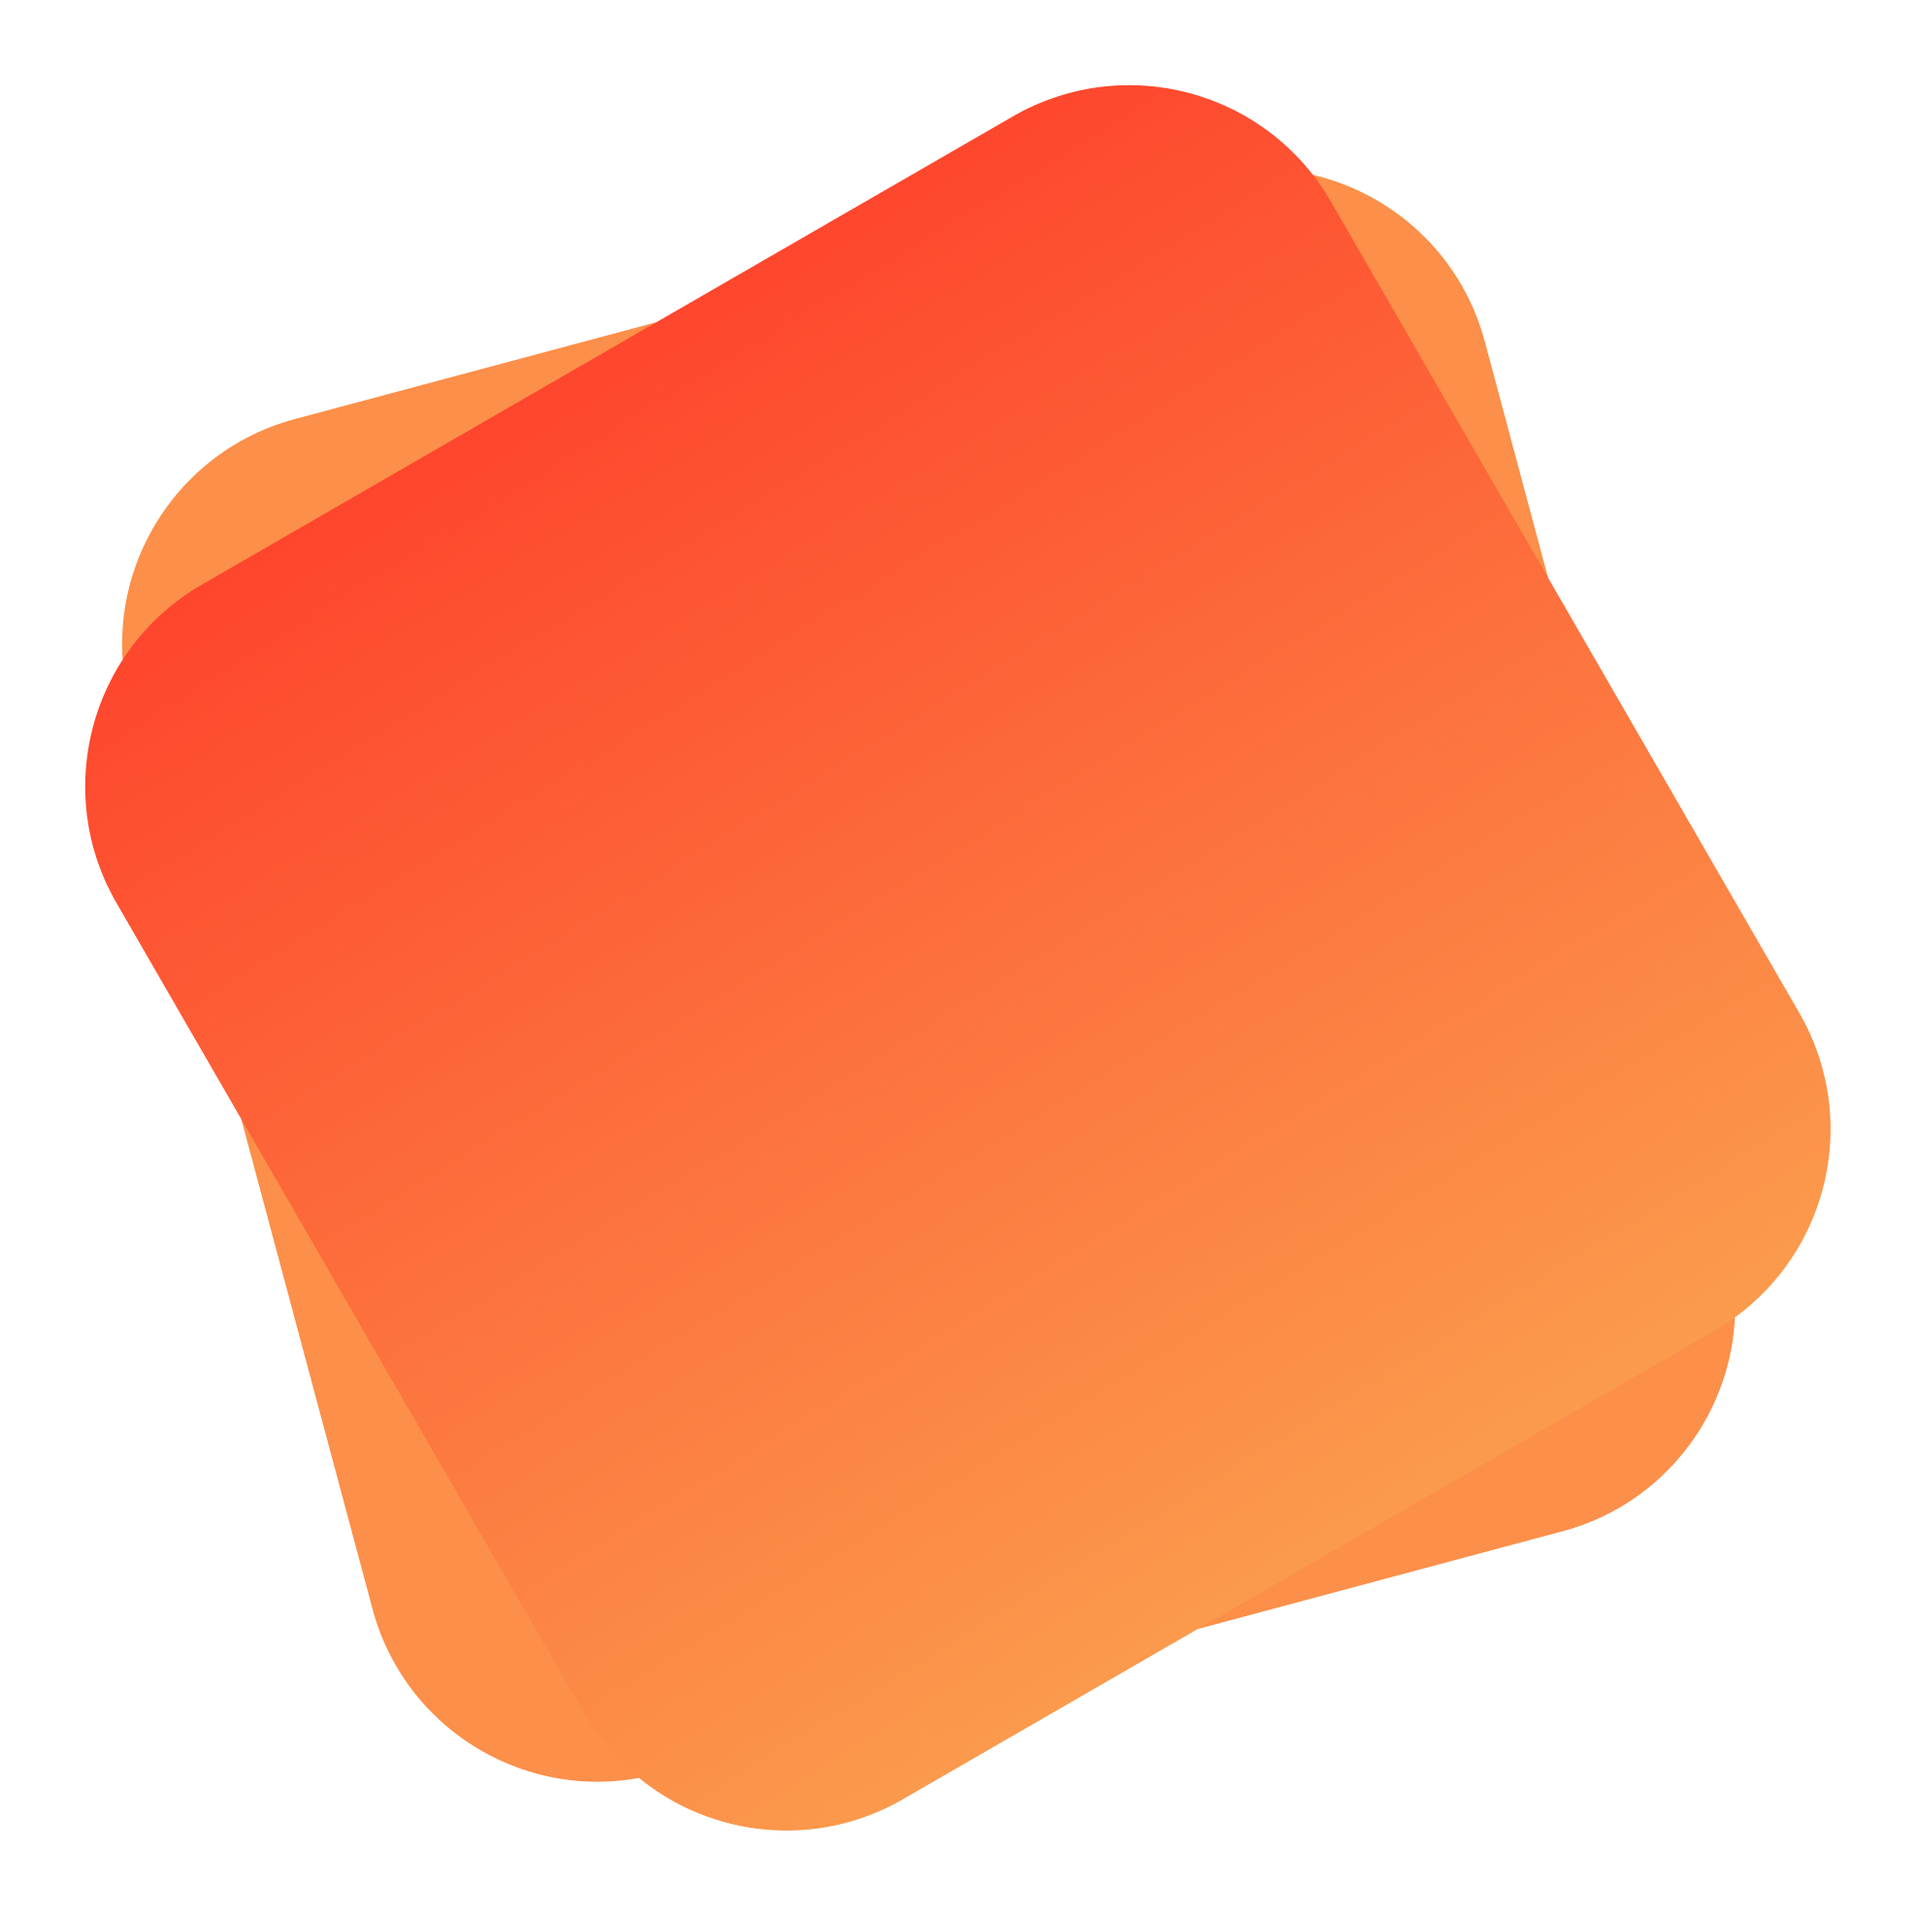
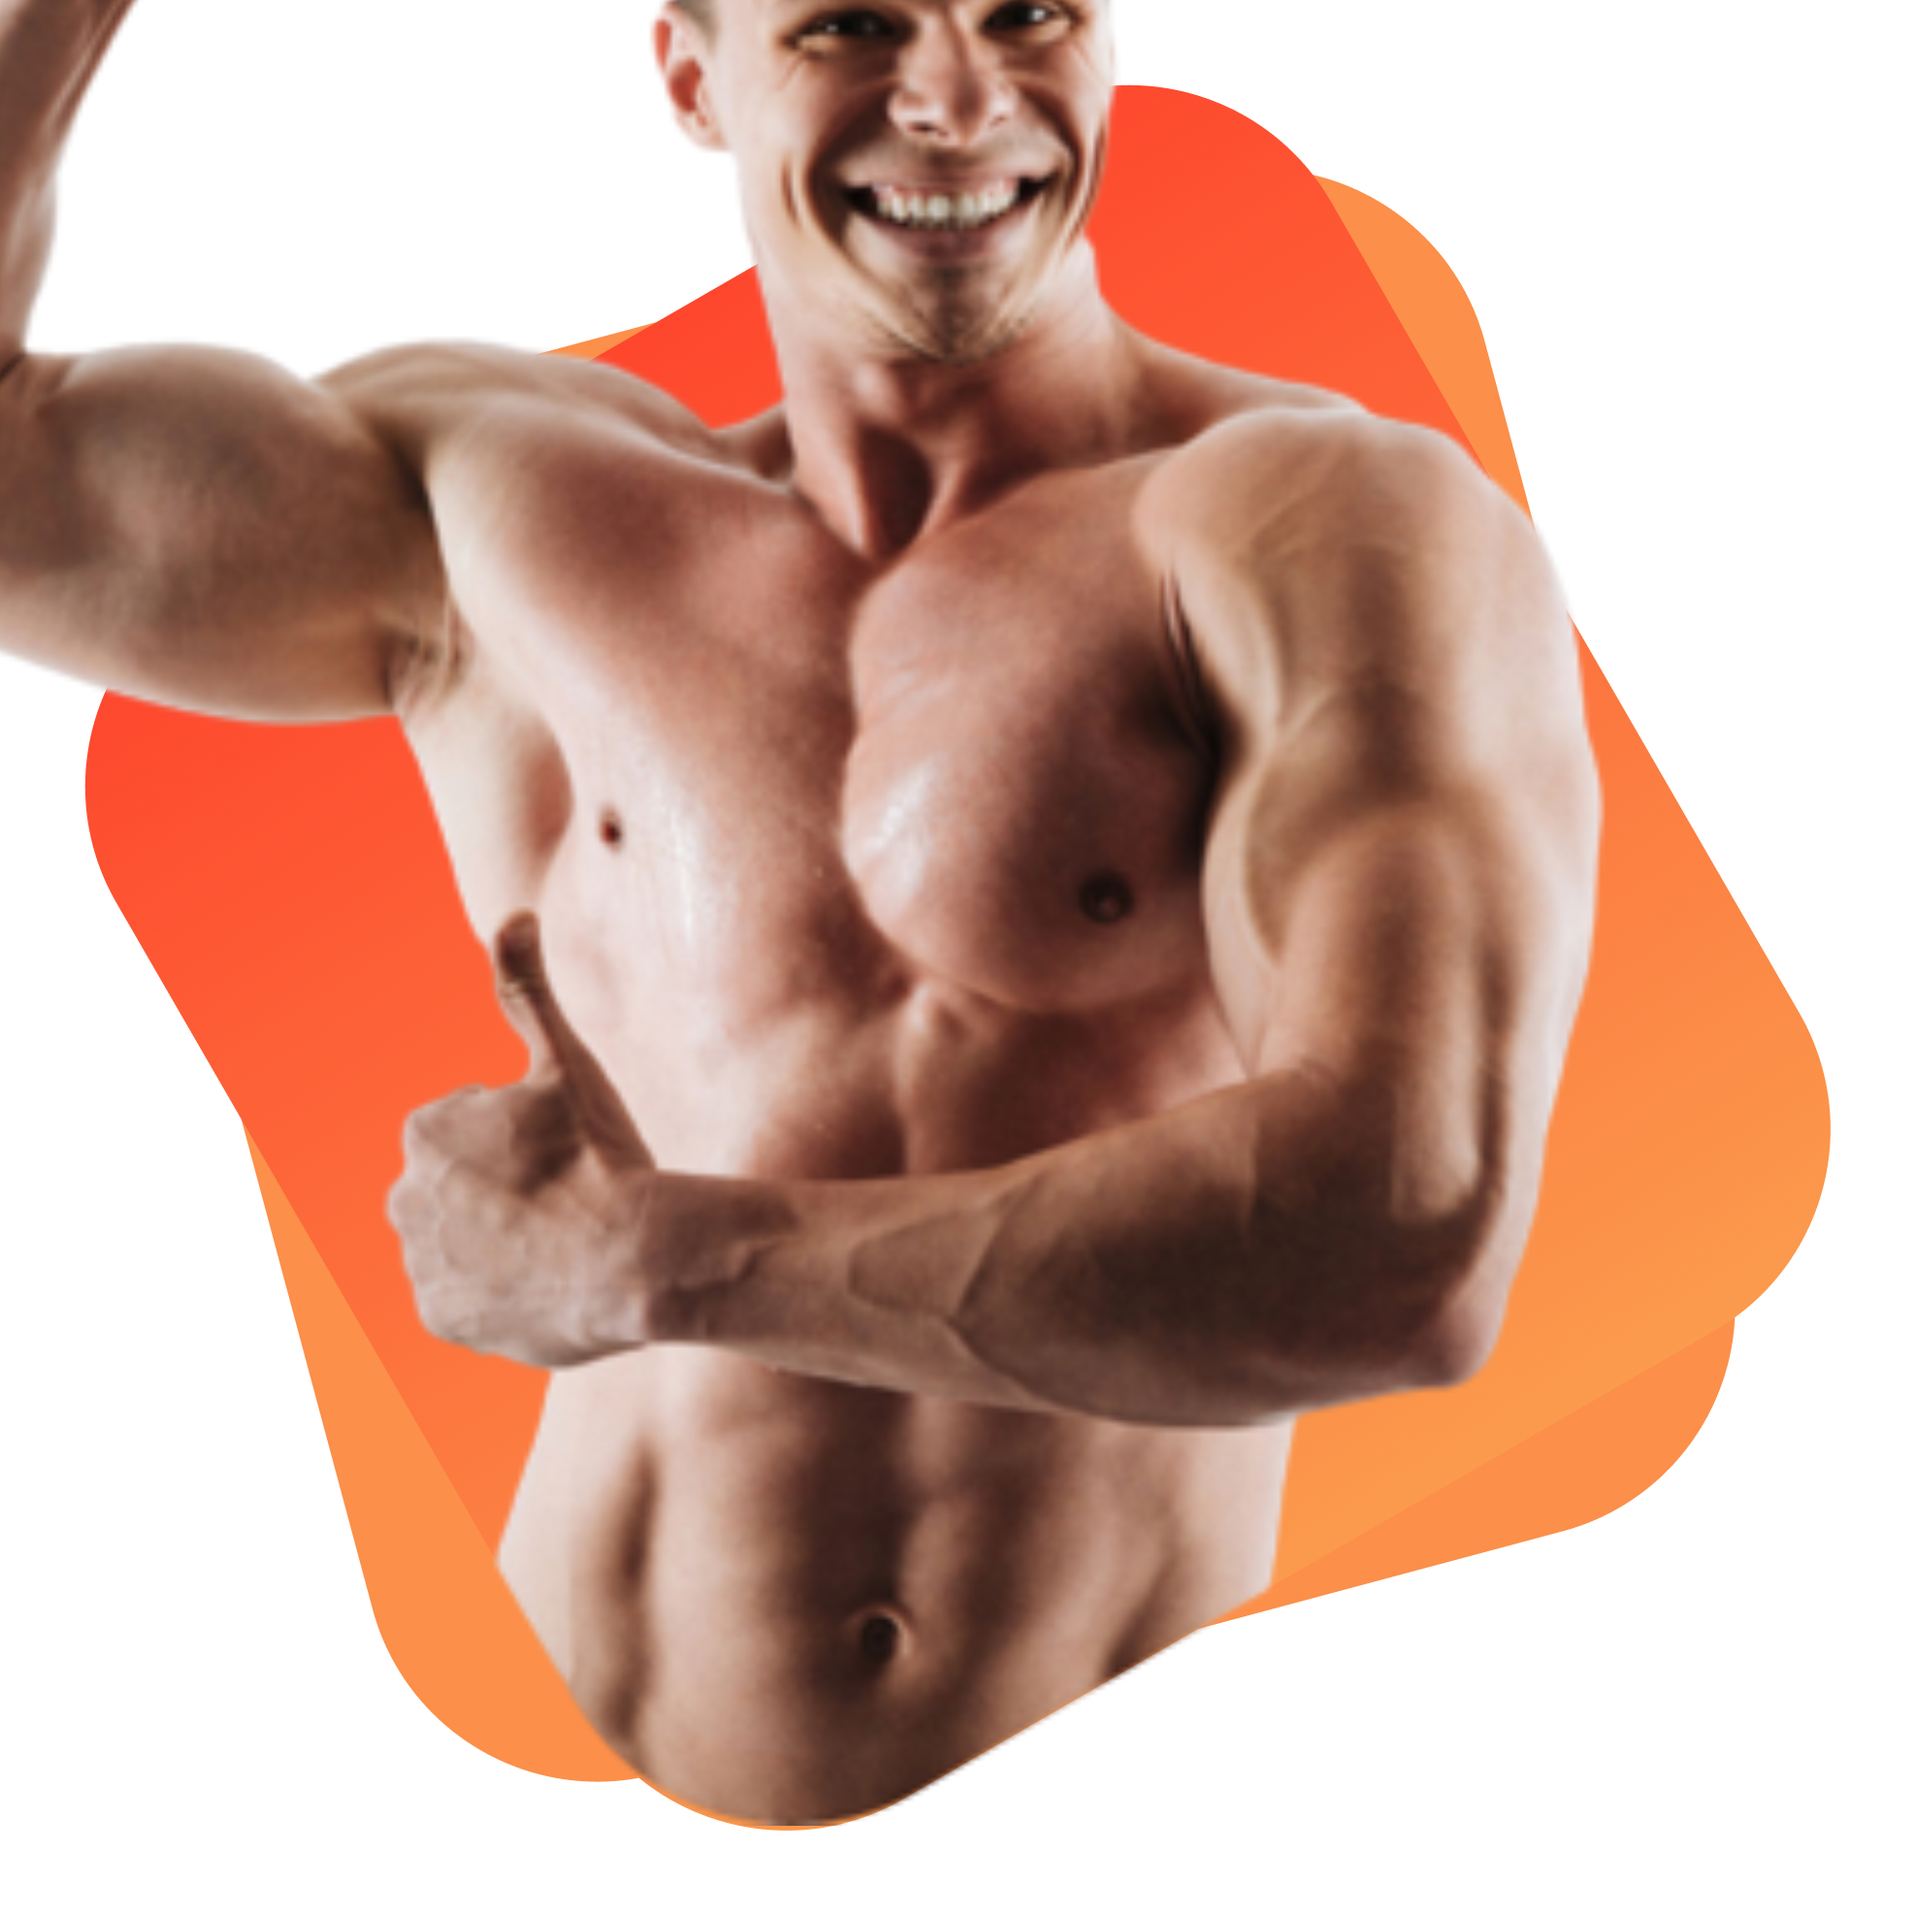
everythings are added

diff --git a/index.html b/index.html
@@ -9,12 +9,82 @@
     <link rel="stylesheet" href="style.css">
 </head>
 <body>
-    <section>
-        <div>
+    <section class="flexible-containor">
+        <div class="half-width diet-area">
             <h1><span class="orange-color">Skip</span> The Diet,</h1>
             <h1>Just Eat Healty</h1>
             <h1>With Food Network</h1>
+            <p>Imagine you don't need a diet because we provide 
+                healthy and delicious food for you!</p>
+                <a class="link-button" target="_blank" href="">Order Food</a>
+        </div>
+        <div>
+            <img class="half-width half-width-img" src="./images/Group 8450.jpg" alt="">
         </div>
     </section>
+    <section class="flexible-containor about-me-section ">
+        <div>
+            <img src="./images/female/Person Image.png" alt="" class="half-width-img-2">
+        </div>
+        <div class="about">
+            <h1>About Me</h1>
+            <p>Lorem, ipsum dolor sit amet consectetur adipisicing elit. Suscipit accusantium voluptates delectus laboriosam voluptas molestiae consequatur officia officiis quaerat iusto veniam quas explicabo aut cum, atque nostrum cumque quisquam nobis quod esse ullam? Repellendus nemo autem optio quia dignissimos </p>
+            <a target="_blank" href="" class="link-button">Contact me</a>
+        </div>
+    </section>
+    <section class="middle-area">
+        <h1>
+            My Recipies
+        </h1>
+        <p>
+            Lorem ipsum dolor sit amet, consectetur adipisicing.
+        </p>
+        <p>
+            Lorem ipsum dolor sit amet consectetur adipisicing elit.
+        </p>
+        
+    </section>
+
+    <section class="flexible-containor-3">
+        <div class="recipie-1">
+            <img src="./images/food/Project Cover.jpg" alt="">
+            <h2>Recipie Title</h2>
+            <p>Lorem ipsum dolor sit amet consectetur adipisicing elit. Exercitationem mollitia cum pariatur voluptate, molestiae dolore!</p>
+        </div>
+        <div class="recipie-1">
+            <img src="./images/food/Project Cover.jpg" alt="">
+
+            <h2>
+                Recipie Title
+            </h2>
+            <p>
+                Lorem, ipsum dolor sit amet consectetur adipisicing elit. Quidem adipisci, est quia cupiditate eligendi totam!
+            </p>
+        </div>
+    </section>
+
+    <section class="flexible-containor info">
+        <div class="info-div">
+            <h2>700k</h2>
+            <p>Youtube Subscribers</p>
+        </div>
+        <div class="info-div">
+            <h2>2.4m</h2>
+            <p>Instagram Followers</p>
+        </div>
+        <div class="info-div">
+            <h2>100k</h2>
+            <p>Dribbble Shot Likes</p>
+        </div>
+    </section>
+    <footer class="foot-area">
+        <h1><span class="orange-color">
+            Eat
+
+        </span> Fresh</h1>
+        <p>
+            Eat healthy to live healthy. Live healthy to live happy.
+        </p>
+    </footer>
 </body>
 </html>

diff --git a/style.css b/style.css
@@ -1,9 +1,84 @@
 body{
     font-family: 'Poppins', sans-serif;
+    margin: 0;
 }
 h1{
-    font-size: 50px;
+    font-size: 40px;
+    color: gray;
 }
 .orange-color{
     color: orange;
+}
+.flexible-containor{
+    display: flex;
+    
+}
+.diet-area{
+    padding-top: 15%;
+    padding-left: 7%;
+
+}
+.half-width{
+    width: 50%;
+}
+.half-width-img{
+    height: 900px;
+    width: 800px;
+}
+.link-button{
+    text-decoration: none;
+    background-color: tomato;
+    color: white;
+    padding: 10px 20px;
+    border-radius: 100px;
+}
+.half-width-img-2{
+    height:600px;
+    width: 400px;
+    padding-left: 200px;
+}
+.about-me-section{
+    margin-top: 100px;
+    background-image: url(./images/shapes/7.png);
+    background-repeat: no-repeat;
+}
+.about{
+    padding-right: 3%;
+    padding-left: 100px;
+    width: 50%;
+}
+.middle-area{
+    text-align: center;
+}
+.flexible-containor-3{
+    display: flex;
+    padding: 5%;
+}
+.recipie-1{
+    border-radius: 10px;
+    box-shadow: 10px 10px 40px gray;
+    width: 50%;
+    margin: 20px;
+    padding: 20px;
+}
+.recipie-1 img{
+   
+    width: 100%;
+
+}
+.info{
+    
+    box-shadow: 5px 5px 50px gray;
+    border-radius: 10px;
+    margin: 5%;
+   
+}
+.info-div{
+    padding: 10px 100px;
+}
+.foot-area{
+    text-align: center;
+    background-color: rgb(55, 49, 49);
+   color: aliceblue;
+   padding: 30px;
 }
